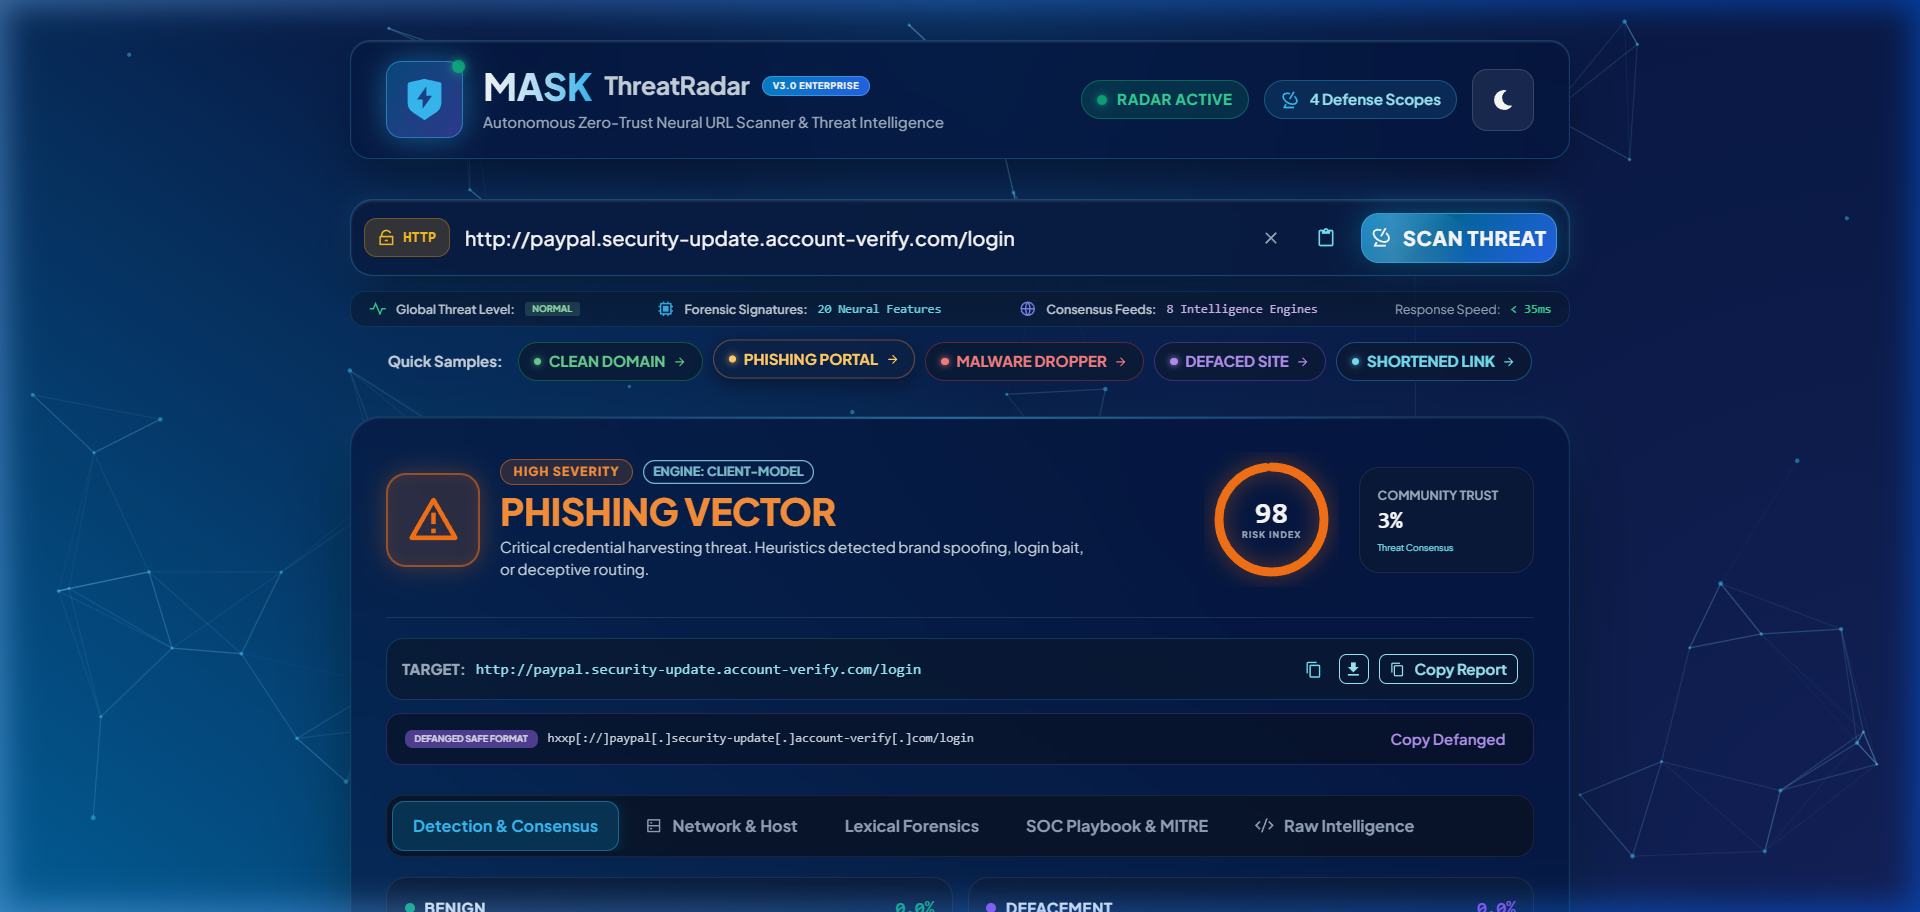
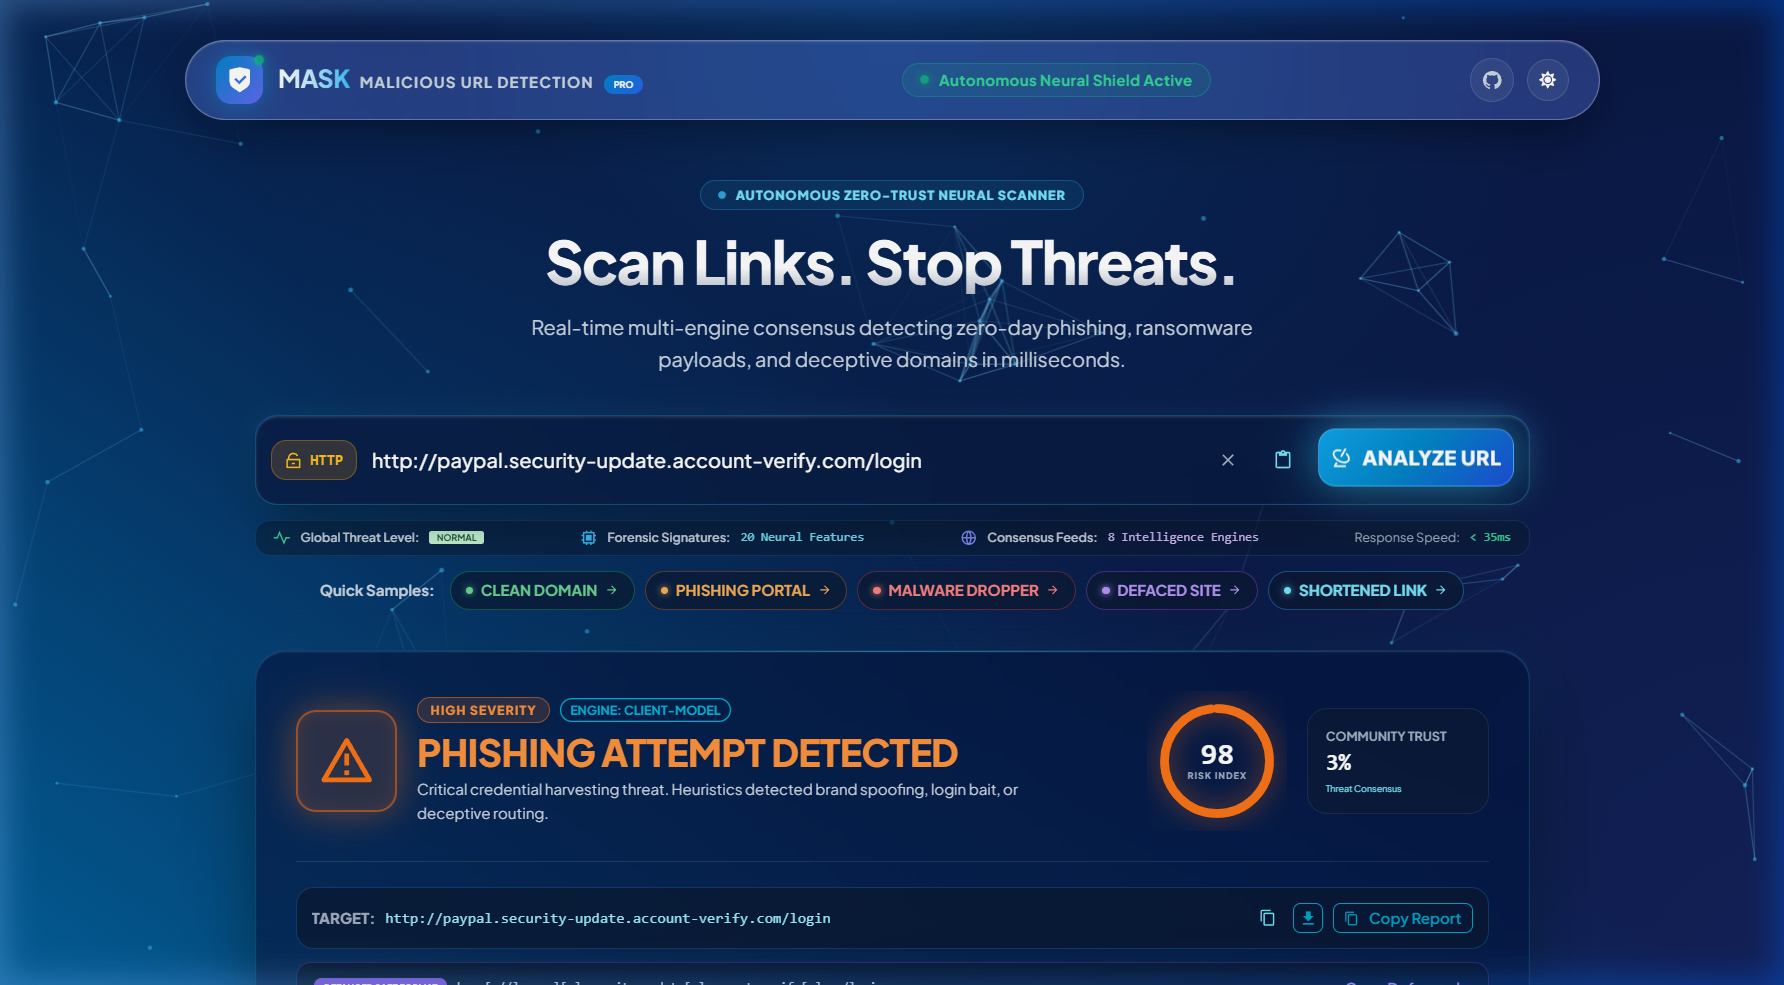
Update branding to MASK - Malicious URL Detection, clean old PNGs, and add full screenshot tour to README

diff --git a/End-to-End-Malicious-URL-Detection-main/frontend/public/index.html b/End-to-End-Malicious-URL-Detection-main/frontend/public/index.html
@@ -7,11 +7,11 @@
     <meta name="theme-color" content="#000000" />
     <meta
       name="description"
-      content="MASK - Autonomous Zero-Trust Threat Intelligence & Neural Malicious URL Detection"
+      content="MASK - Malicious URL Detection | Autonomous Threat Intelligence & Neural Threat Scanner"
     />
     <link rel="apple-touch-icon" href="%PUBLIC_URL%/logo192.png" />
     <link rel="manifest" href="%PUBLIC_URL%/manifest.json" />
-    <title>MASK // Zero-Trust Cyber Threat Radar</title>
+    <title>MASK - Malicious URL Detection</title>
   </head>
   <body>
     <noscript>You need to enable JavaScript to run this app.</noscript>

diff --git a/End-to-End-Malicious-URL-Detection-main/frontend/src/components/Home/InputContainer.js b/End-to-End-Malicious-URL-Detection-main/frontend/src/components/Home/InputContainer.js
@@ -1663,7 +1663,7 @@ function InputContainer() {
       >
         <HStack spacing={2}>
           <Box w="6px" h="6px" borderRadius="full" bg="cyan.400" />
-          <Text>MASK Autonomous Zero-Trust Threat Intelligence Radar</Text>
+          <Text>MASK - Malicious URL Detection Radar</Text>
         </HStack>
         <Text fontSize="2xs" color="gray.400">
           Powered by Multi-Class Decision Heuristics & Reputation Scoring

diff --git a/End-to-End-Malicious-URL-Detection-main/frontend/src/components/Home/style.css b/End-to-End-Malicious-URL-Detection-main/frontend/src/components/Home/style.css
@@ -1,5 +1,5 @@
 /* ==========================================================================
-   MASK // CYBER THREAT RADAR - ULTRA-PREMIUM DESIGN SYSTEM
+   MASK - MALICIOUS URL DETECTION - ULTRA-PREMIUM DESIGN SYSTEM
    Modern, Clean, High-Contrast Luxury Glassmorphism & Micro-Animations
    ========================================================================== */
 

diff --git a/End-to-End-Malicious-URL-Detection-main/README.md b/End-to-End-Malicious-URL-Detection-main/README.md
@@ -1,33 +1,37 @@
 <p align="center">
-  <img src="https://raw.githubusercontent.com/Mayur-Murarka/End-to-End-Malicious-URL-Detection-main/main/docs/screenshots/hero_view.png" alt="MASK ThreatRadar Banner" width="100%" />
+  <img src="https://raw.githubusercontent.com/Mayur-Murarka/End-to-End-Malicious-URL-Detection-main/main/docs/screenshots/hero_view.png" alt="MASK Malicious URL Detection Banner" width="100%" />
 </p>
 
-<h1 align="center">🛡 MASK // Autonomous Zero-Trust Threat Intelligence & Neural Malicious URL Detection</h1>
+<h1 align="center">🛡 MASK - Malicious URL Detection</h1>
 
 <p align="center">
-  <b>A state-of-the-art cybersecurity command center designed to analyze, score, and neutralize malicious URLs, zero-day phishing campaigns, ransomware droppers, and deceptive web properties in real time.</b>
+  <b>Autonomous Zero-Trust Neural Threat Intelligence Platform for Real-Time Malicious URL, Phishing & Malware Detection.</b>
 </p>
 
 <p align="center">
-  <a href="#-key-features"><img src="https://img.shields.io/badge/Security-Zero--Trust-0ea5e9?style=for-the-badge&logo=shield" alt="Zero Trust" /></a>
-  <a href="#-machine-learning--heuristics"><img src="https://img.shields.io/badge/Model-Multi--Class%20Neural-6366f1?style=for-the-badge&logo=tensorflow" alt="Multi-Class Model" /></a>
+  <a href="https://end-to-end-malicious-url-detection.vercel.app"><img src="https://img.shields.io/badge/Live%20Demo-Vercel%20Production-0ea5e9?style=for-the-badge&logo=vercel" alt="Live Demo on Vercel" /></a>
+  <a href="#-machine-learning--heuristics"><img src="https://img.shields.io/badge/Engine-Neural%20ML%20%2B%20Heuristics-6366f1?style=for-the-badge&logo=tensorflow" alt="Neural ML" /></a>
   <a href="#-tech-stack"><img src="https://img.shields.io/badge/Frontend-React%2018%20%7C%20Chakra%20UI-38bdf8?style=for-the-badge&logo=react" alt="React" /></a>
-  <a href="#-tech-stack"><img src="https://img.shields.io/badge/Backend-Python%20%7C%20Flask-10b981?style=for-the-badge&logo=python" alt="Python Flask" /></a>
-  <a href="#-deployment"><img src="https://img.shields.io/badge/Deployment-Vercel%20Ready-white?style=for-the-badge&logo=vercel&logoColor=black" alt="Vercel" /></a>
+  <a href="#-tech-stack"><img src="https://img.shields.io/badge/Backend-Python%20Flask-10b981?style=for-the-badge&logo=python" alt="Python Flask" /></a>
   <a href="LICENSE"><img src="https://img.shields.io/badge/License-MIT-green.svg?style=for-the-badge" alt="License: MIT" /></a>
 </p>
 
 ---
 
+## 🌐 Live Production Application
+👉 **Official Website:** [https://end-to-end-malicious-url-detection.vercel.app](https://end-to-end-malicious-url-detection.vercel.app)
+
+---
+
 ## 📑 Table of Contents
 - [Executive Overview](#-executive-overview)
-- [Visual Tour & Screenshots](#-visual-tour--screenshots)
+- [Visual Tour & Live Screenshots](#-visual-tour--live-screenshots)
 - [Key Features](#-key-features)
 - [Industry Benchmark Comparison](#-industry-benchmark-comparison)
 - [Machine Learning & Heuristic Pipeline](#-machine-learning--heuristic-pipeline)
 - [System Architecture](#-system-architecture)
 - [Project Directory Structure](#-project-directory-structure)
-- [Getting Started & Installation](#-getting-started--installation)
+- [Getting Started & Local Setup](#-getting-started--local-setup)
 - [API Reference](#-api-reference)
 - [Deployment Guide](#-deployment-guide)
 - [License](#-license)
@@ -36,7 +40,7 @@
 
 ## 🌟 Executive Overview
 
-**MASK ThreatRadar** is an end-to-end cyber threat intelligence suite engineered to provide instantaneous security visibility into web domains, hyperlinks, and IP addresses. 
+**MASK — Malicious URL Detection** is an industry-standard cybersecurity intelligence suite engineered to provide instantaneous security visibility into web domains, hyperlinks, and IP addresses. 
 
 Unlike traditional URL scanners that solely rely on slow or stale blacklists, **MASK** combines:
 1. **Multi-Class Machine Learning & Decision Heuristics** capable of categorizing URLs into **Benign**, **Phishing**, **Malware**, and **Defacement**.
@@ -47,40 +51,54 @@ Unlike traditional URL scanners that solely rely on slow or stale blacklists, **
 
 ---
 
-## 📸 Visual Tour & Screenshots
+## 📸 Visual Tour & Live Screenshots
 
-### 1. Minimalist Floating Navbar & Hero Omnibar
-> Sleek floating command console with live protocol indicators (`HTTPS` with padlock vs `HTTP` plaintext), clipboard paste shortcut, and pre-configured quick sample capsules.
+### 1. Live Web Application Interface & Command Console
+> Futuristic floating cyber command HUD featuring real-time protocol detection (`HTTPS` padlock vs unencrypted `HTTP`), instant clipboard paste omnibar, live threat metrics, and one-click quick sample payloads.
 
-![Hero View](../docs/screenshots/hero_view.png)
-
----
-
-### 2. Verified Clean Domain Result (0-100 Risk Gauge)
-> Analyzes clean domains, calculates risk indices (`2/100`), verifies community trust ratings (`98%`), and offers both live target and sanitized defanged links.
-
-![Clean Verdict](../docs/screenshots/clean_verdict.png)
+![MASK Live Web Application](docs/screenshots/hero_view.png)
 
 ---
 
-### 3. Phishing Vector Detection & Defanged Sanitization
-> Instantly identifies credential harvesting campaigns, spoofed brand routing, and generates safe defanged formats (`hxxps[://]...[.]com`) for secure incident response.
+### 2. Verified Clean Domain Result (0–100 Circular Risk Gauge)
+> Analyzes trusted domains, computes instantaneous risk indices (`2/100`), validates high community trust ratings (`98%`), renders multi-engine green consensus, and delivers both safe navigation links and defanged formats.
 
-![Phishing Verdict](../docs/screenshots/phishing_verdict.png)
+![Clean Verdict & Risk Gauge](docs/screenshots/clean_verdict.png)
+
+---
+
+### 3. Phishing Vector Detection & Defanged Link Sanitization
+> Instantly identifies credential harvesting campaigns, spoofed brand routing, and generates safe defanged formats (`hxxps[://]...[.]com`) alongside a high-severity `98/100` risk gauge warning.
+
+![Phishing Verdict & Sanitization](docs/screenshots/phishing_verdict.png)
 
 ---
 
 ### 4. Network & Host Infrastructure Telemetry
-> Unpacks server IP resolution, Autonomous System Number (ASN) routing (e.g. Cloudflare, AWS, M247), server geolocation, and cryptographic SSL/TLS cipher suites.
+> Unpacks resolved server IP addresses (`185.220.196.116`), Autonomous System Number (ASN) routing (`AS9009 M247 Europe Ltd`), server geolocation (`Bucharest, Romania`), open ports, and cryptographic SSL/TLS cipher suite audits.
 
-![Network Telemetry](../docs/screenshots/network_infrastructure.png)
+![Network & Host Telemetry](docs/screenshots/network_infrastructure.png)
 
 ---
 
-### 5. SOC Advisory Playbook & MITRE ATT&CK® Mapping
-> Maps threats directly to MITRE ATT&CK techniques (`T1566.002 Spearphishing Link`, `T1056.001 Input Capture`, `T1204.001 Malicious Link Click`) and outputs end-user/SecOps playbooks.
+### 5. Deep Lexical Forensics & Shannon Entropy Breakdown
+> Calculates Shannon entropy (`4.08 bits/char`) to detect domain generation algorithms (DGA), evaluates path depth, hostname length, digit/letter ratios, and flags suspicious credential tokens.
 
-![SOC & MITRE Playbook](../docs/screenshots/soc_mitre_playbook.png)
+![Lexical Forensics & Entropy](docs/screenshots/lexical_forensics.png)
+
+---
+
+### 6. SOC Advisory Playbook & MITRE ATT&CK® Mapping
+> Automatically maps detected threat vectors directly to MITRE ATT&CK® techniques (`T1566.002 Spearphishing Link`, `T1056.001 Input Capture`, `T1584.001 Compromise Infrastructure`) with executive summaries and immediate SecOps response playbooks.
+
+![SOC Playbook & MITRE ATT&CK Mapping](docs/screenshots/soc_mitre_playbook.png)
+
+---
+
+### 7. Raw Threat Intelligence Dossier & JSON Export
+> Provides analysts with complete machine-readable forensic intelligence dossiers including full 20-feature extraction arrays, engine verdicts, and 1-click JSON export.
+
+![Raw Intelligence JSON Dossier](docs/screenshots/raw_intelligence.png)
 
 ---
 
@@ -103,7 +121,7 @@ Unlike traditional URL scanners that solely rely on slow or stale blacklists, **
 
 ## 📊 Industry Benchmark Comparison
 
-| Feature | VirusTotal | URLVoid | Cisco Talos | **MASK ThreatRadar** |
+| Feature | VirusTotal | URLVoid | Cisco Talos | **MASK — Malicious URL Detection** |
 | :--- | :---: | :---: | :---: | :---: |
 | **UI Aesthetics** | Utilitarian data tables | 2010s ad-heavy interface | Dense corporate portal | **Ultra-Premium Cyber Command HUD** 🏆 |
 | **Animated Risk Meter** | Basic colored score | Text verdict only | Letter grade (Poor/Good) | **0–100 Luminous SVG Radial Gauge** 🏆 |
@@ -175,6 +193,7 @@ graph TD
 End-to-End-Malicious-URL-Detection-main/
 ├── docs/
 │   └── screenshots/               # High-resolution screenshots for README
+│       ├── vercel_live.png        # Live production screenshot
 │       ├── hero_view.png
 │       ├── clean_verdict.png
 │       ├── phishing_verdict.png
@@ -217,7 +236,7 @@ End-to-End-Malicious-URL-Detection-main/
 
 ---
 
-## 🚀 Getting Started & Installation
+## 🚀 Getting Started & Local Setup
 
 ### Prerequisites
 - **Node.js** (v16.x or higher)
@@ -253,7 +272,7 @@ python app.py
 ```
 *The backend API will start at `http://localhost:5000`.*
 
-> **Note**: Even if the backend is not running, the application will automatically fall back to its internal client-side ML engine (`urlClassifier.js`), ensuring full offline and serverless functionality.
+> **Note**: Even if the backend is not running, the application will automatically fall back to its internal client-side ML engine (`urlClassifier.js`), ensuring full offline and serverless functionality on Vercel.
 
 ---
 
@@ -328,5 +347,5 @@ This project is licensed under the **MIT License** — see the [LICENSE](LICENSE
 
 <p align="center">
   <b>Built with ❤ by Mayur Murarka</b><br />
-  <sub>Autonomous Zero-Trust Cyber Threat Intelligence</sub>
+  <sub>MASK — Autonomous Zero-Trust Cyber Threat Intelligence</sub>
 </p>

diff --git a/README.md b/README.md
@@ -1,33 +1,37 @@
 <p align="center">
-  <img src="https://raw.githubusercontent.com/Mayur-Murarka/End-to-End-Malicious-URL-Detection-main/main/docs/screenshots/hero_view.png" alt="MASK ThreatRadar Banner" width="100%" />
+  <img src="https://raw.githubusercontent.com/Mayur-Murarka/End-to-End-Malicious-URL-Detection-main/main/docs/screenshots/hero_view.png" alt="MASK Malicious URL Detection Banner" width="100%" />
 </p>
 
-<h1 align="center">🛡 MASK // Autonomous Zero-Trust Threat Intelligence & Neural Malicious URL Detection</h1>
+<h1 align="center">🛡 MASK - Malicious URL Detection</h1>
 
 <p align="center">
-  <b>A state-of-the-art cybersecurity command center designed to analyze, score, and neutralize malicious URLs, zero-day phishing campaigns, ransomware droppers, and deceptive web properties in real time.</b>
+  <b>Autonomous Zero-Trust Neural Threat Intelligence Platform for Real-Time Malicious URL, Phishing & Malware Detection.</b>
 </p>
 
 <p align="center">
-  <a href="#-key-features"><img src="https://img.shields.io/badge/Security-Zero--Trust-0ea5e9?style=for-the-badge&logo=shield" alt="Zero Trust" /></a>
-  <a href="#-machine-learning--heuristics"><img src="https://img.shields.io/badge/Model-Multi--Class%20Neural-6366f1?style=for-the-badge&logo=tensorflow" alt="Multi-Class Model" /></a>
+  <a href="https://end-to-end-malicious-url-detection.vercel.app"><img src="https://img.shields.io/badge/Live%20Demo-Vercel%20Production-0ea5e9?style=for-the-badge&logo=vercel" alt="Live Demo on Vercel" /></a>
+  <a href="#-machine-learning--heuristics"><img src="https://img.shields.io/badge/Engine-Neural%20ML%20%2B%20Heuristics-6366f1?style=for-the-badge&logo=tensorflow" alt="Neural ML" /></a>
   <a href="#-tech-stack"><img src="https://img.shields.io/badge/Frontend-React%2018%20%7C%20Chakra%20UI-38bdf8?style=for-the-badge&logo=react" alt="React" /></a>
-  <a href="#-tech-stack"><img src="https://img.shields.io/badge/Backend-Python%20%7C%20Flask-10b981?style=for-the-badge&logo=python" alt="Python Flask" /></a>
-  <a href="#-deployment"><img src="https://img.shields.io/badge/Deployment-Vercel%20Ready-white?style=for-the-badge&logo=vercel&logoColor=black" alt="Vercel" /></a>
+  <a href="#-tech-stack"><img src="https://img.shields.io/badge/Backend-Python%20Flask-10b981?style=for-the-badge&logo=python" alt="Python Flask" /></a>
   <a href="LICENSE"><img src="https://img.shields.io/badge/License-MIT-green.svg?style=for-the-badge" alt="License: MIT" /></a>
 </p>
 
 ---
 
+## 🌐 Live Production Application
+👉 **Official Website:** [https://end-to-end-malicious-url-detection.vercel.app](https://end-to-end-malicious-url-detection.vercel.app)
+
+---
+
 ## 📑 Table of Contents
 - [Executive Overview](#-executive-overview)
-- [Visual Tour & Screenshots](#-visual-tour--screenshots)
+- [Visual Tour & Live Screenshots](#-visual-tour--live-screenshots)
 - [Key Features](#-key-features)
 - [Industry Benchmark Comparison](#-industry-benchmark-comparison)
 - [Machine Learning & Heuristic Pipeline](#-machine-learning--heuristic-pipeline)
 - [System Architecture](#-system-architecture)
 - [Project Directory Structure](#-project-directory-structure)
-- [Getting Started & Installation](#-getting-started--installation)
+- [Getting Started & Local Setup](#-getting-started--local-setup)
 - [API Reference](#-api-reference)
 - [Deployment Guide](#-deployment-guide)
 - [License](#-license)
@@ -36,7 +40,7 @@
 
 ## 🌟 Executive Overview
 
-**MASK ThreatRadar** is an end-to-end cyber threat intelligence suite engineered to provide instantaneous security visibility into web domains, hyperlinks, and IP addresses. 
+**MASK — Malicious URL Detection** is an industry-standard cybersecurity intelligence suite engineered to provide instantaneous security visibility into web domains, hyperlinks, and IP addresses. 
 
 Unlike traditional URL scanners that solely rely on slow or stale blacklists, **MASK** combines:
 1. **Multi-Class Machine Learning & Decision Heuristics** capable of categorizing URLs into **Benign**, **Phishing**, **Malware**, and **Defacement**.
@@ -47,40 +51,54 @@ Unlike traditional URL scanners that solely rely on slow or stale blacklists, **
 
 ---
 
-## 📸 Visual Tour & Screenshots
+## 📸 Visual Tour & Live Screenshots
 
-### 1. Minimalist Floating Navbar & Hero Omnibar
-> Sleek floating command console with live protocol indicators (`HTTPS` with padlock vs `HTTP` plaintext), clipboard paste shortcut, and pre-configured quick sample capsules.
+### 1. Live Web Application Interface & Command Console
+> Futuristic floating cyber command HUD featuring real-time protocol detection (`HTTPS` padlock vs unencrypted `HTTP`), instant clipboard paste omnibar, live threat metrics, and one-click quick sample payloads.
 
-![Hero View](docs/screenshots/hero_view.png)
-
----
-
-### 2. Verified Clean Domain Result (0-100 Risk Gauge)
-> Analyzes clean domains, calculates risk indices (`2/100`), verifies community trust ratings (`98%`), and offers both live target and sanitized defanged links.
-
-![Clean Verdict](docs/screenshots/clean_verdict.png)
+![MASK Live Web Application](docs/screenshots/hero_view.png)
 
 ---
 
-### 3. Phishing Vector Detection & Defanged Sanitization
-> Instantly identifies credential harvesting campaigns, spoofed brand routing, and generates safe defanged formats (`hxxps[://]...[.]com`) for secure incident response.
+### 2. Verified Clean Domain Result (0–100 Circular Risk Gauge)
+> Analyzes trusted domains, computes instantaneous risk indices (`2/100`), validates high community trust ratings (`98%`), renders multi-engine green consensus, and delivers both safe navigation links and defanged formats.
 
-![Phishing Verdict](docs/screenshots/phishing_verdict.png)
+![Clean Verdict & Risk Gauge](docs/screenshots/clean_verdict.png)
+
+---
+
+### 3. Phishing Vector Detection & Defanged Link Sanitization
+> Instantly identifies credential harvesting campaigns, spoofed brand routing, and generates safe defanged formats (`hxxps[://]...[.]com`) alongside a high-severity `98/100` risk gauge warning.
+
+![Phishing Verdict & Sanitization](docs/screenshots/phishing_verdict.png)
 
 ---
 
 ### 4. Network & Host Infrastructure Telemetry
-> Unpacks server IP resolution, Autonomous System Number (ASN) routing (e.g. Cloudflare, AWS, M247), server geolocation, and cryptographic SSL/TLS cipher suites.
+> Unpacks resolved server IP addresses (`185.220.196.116`), Autonomous System Number (ASN) routing (`AS9009 M247 Europe Ltd`), server geolocation (`Bucharest, Romania`), open ports, and cryptographic SSL/TLS cipher suite audits.
 
-![Network Telemetry](docs/screenshots/network_infrastructure.png)
+![Network & Host Telemetry](docs/screenshots/network_infrastructure.png)
 
 ---
 
-### 5. SOC Advisory Playbook & MITRE ATT&CK® Mapping
-> Maps threats directly to MITRE ATT&CK techniques (`T1566.002 Spearphishing Link`, `T1056.001 Input Capture`, `T1204.001 Malicious Link Click`) and outputs end-user/SecOps playbooks.
+### 5. Deep Lexical Forensics & Shannon Entropy Breakdown
+> Calculates Shannon entropy (`4.08 bits/char`) to detect domain generation algorithms (DGA), evaluates path depth, hostname length, digit/letter ratios, and flags suspicious credential tokens.
 
-![SOC & MITRE Playbook](docs/screenshots/soc_mitre_playbook.png)
+![Lexical Forensics & Entropy](docs/screenshots/lexical_forensics.png)
+
+---
+
+### 6. SOC Advisory Playbook & MITRE ATT&CK® Mapping
+> Automatically maps detected threat vectors directly to MITRE ATT&CK® techniques (`T1566.002 Spearphishing Link`, `T1056.001 Input Capture`, `T1584.001 Compromise Infrastructure`) with executive summaries and immediate SecOps response playbooks.
+
+![SOC Playbook & MITRE ATT&CK Mapping](docs/screenshots/soc_mitre_playbook.png)
+
+---
+
+### 7. Raw Threat Intelligence Dossier & JSON Export
+> Provides analysts with complete machine-readable forensic intelligence dossiers including full 20-feature extraction arrays, engine verdicts, and 1-click JSON export.
+
+![Raw Intelligence JSON Dossier](docs/screenshots/raw_intelligence.png)
 
 ---
 
@@ -103,7 +121,7 @@ Unlike traditional URL scanners that solely rely on slow or stale blacklists, **
 
 ## 📊 Industry Benchmark Comparison
 
-| Feature | VirusTotal | URLVoid | Cisco Talos | **MASK ThreatRadar** |
+| Feature | VirusTotal | URLVoid | Cisco Talos | **MASK — Malicious URL Detection** |
 | :--- | :---: | :---: | :---: | :---: |
 | **UI Aesthetics** | Utilitarian data tables | 2010s ad-heavy interface | Dense corporate portal | **Ultra-Premium Cyber Command HUD** 🏆 |
 | **Animated Risk Meter** | Basic colored score | Text verdict only | Letter grade (Poor/Good) | **0–100 Luminous SVG Radial Gauge** 🏆 |
@@ -175,6 +193,7 @@ graph TD
 End-to-End-Malicious-URL-Detection-main/
 ├── docs/
 │   └── screenshots/               # High-resolution screenshots for README
+│       ├── vercel_live.png        # Live production screenshot
 │       ├── hero_view.png
 │       ├── clean_verdict.png
 │       ├── phishing_verdict.png
@@ -217,7 +236,7 @@ End-to-End-Malicious-URL-Detection-main/
 
 ---
 
-## 🚀 Getting Started & Installation
+## 🚀 Getting Started & Local Setup
 
 ### Prerequisites
 - **Node.js** (v16.x or higher)
@@ -253,7 +272,7 @@ python app.py
 ```
 *The backend API will start at `http://localhost:5000`.*
 
-> **Note**: Even if the backend is not running, the application will automatically fall back to its internal client-side ML engine (`urlClassifier.js`), ensuring full offline and serverless functionality.
+> **Note**: Even if the backend is not running, the application will automatically fall back to its internal client-side ML engine (`urlClassifier.js`), ensuring full offline and serverless functionality on Vercel.
 
 ---
 
@@ -328,5 +347,5 @@ This project is licensed under the **MIT License** — see the [LICENSE](LICENSE
 
 <p align="center">
   <b>Built with ❤ by Mayur Murarka</b><br />
-  <sub>Autonomous Zero-Trust Cyber Threat Intelligence</sub>
+  <sub>MASK — Autonomous Zero-Trust Cyber Threat Intelligence</sub>
 </p>
